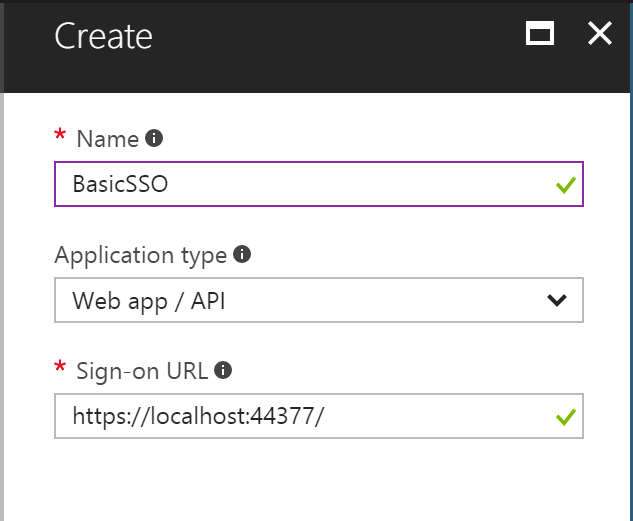
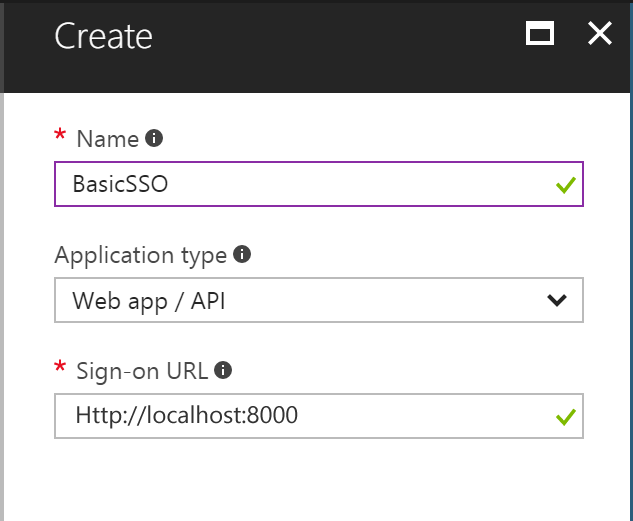
Update text.

Changed region(s): [[0.1201, 0.7678, 0.5103, 0.8292]]

diff --git a/Basics of SSO/README.md b/Basics of SSO/README.md
@@ -50,7 +50,7 @@ The starter project is a simple application with only SQL authentication configu
 
 4. Input a **Name**, and select **Web app / API** as **Application Type**.
 
-   Input **Sign-on URL**: https://localhost:44377/
+   Input **Sign-on URL**: http://localhost:8000
 
    ![](Images/aad-create-app-02.png)
 
@@ -97,7 +97,7 @@ The starter project is a simple application with only SQL authentication configu
 
 1. Open the Starter Project in Visual Studio Code, if it isn't already open.  
 
-2. Create a new file named **evn.bat** in the same directory as **manage.py**. Add two new keys **ClientId** and **ClientSecret**. These keys will be used to identity in your apps with Windows Azure Active Directory.
+2. Create a new file named **env.bat** in the same directory as **manage.py**. Add two new keys **ClientId** and **ClientSecret**. These keys will be used to identity in your apps with Windows Azure Active Directory.
 
    ```xml
    set ClientId=<input your client id here>
@@ -133,6 +133,7 @@ The starter project is a simple application with only SQL authentication configu
    microsoft_certs_uri = 'https://login.microsoftonline.com/common/discovery/v2.0/keys'
 
    company_admin_role_name = "Company Administrator"
+   ```
 
 
    o365_username_cookie = "O365CookieUsername"
@@ -362,6 +363,7 @@ The starter project is a simple application with only SQL authentication configu
            token.refreshToken = auth_result.get('refreshToken')
            token.expiresOn = expiresOnUTC
            token.save()
+   ```
 
 
 
@@ -586,6 +588,7 @@ The starter project is a simple application with only SQL authentication configu
        def _get_organization(self, tenant_id):
            url = self.api_base_uri + 'organization/' + tenant_id
            return self.rest_api_service.get_json(url, self.access_token)
+   ```
 
 
        def _get_directory_roles(self):
@@ -671,30 +674,31 @@ The starter project is a simple application with only SQL authentication configu
 
 10. Edit account\views.py, remove all code and paste the following.
 
-    ```python
-    '''
-     *   * Copyright (c) Microsoft Corporation. All rights reserved. Licensed under the MIT license.
-     *   * See LICENSE in the project root for license information.
-    '''
+  ```python
+  '''
+   *   * Copyright (c) Microsoft Corporation. All rights reserved. Licensed under the MIT license.
+   *   * See LICENSE in the project root for license information.
+  '''
 
-    import constant
-    from utils.shortcuts import render
+  import constant
+  from utils.shortcuts import render
 
-    from django.conf import settings
-    from django.contrib.auth import login as auth_login
-    from django.contrib.auth import logout as auth_logout
-    from django.contrib.auth import authenticate as auth_authenticate
-    from django.http import HttpResponse, HttpResponseRedirect
+  from django.conf import settings
+  from django.contrib.auth import login as auth_login
+  from django.contrib.auth import logout as auth_logout
+  from django.contrib.auth import authenticate as auth_authenticate
+  from django.http import HttpResponse, HttpResponseRedirect
 
-    from decorator import login_required
-    from services.token_service import TokenService
-    from services.ms_graph_service import MSGraphService
-    from services.user_service import UserService
-    from services.auth_service import AuthService
-    from .forms import UserInfo, UserRegInfo
+  from decorator import login_required
+  from services.token_service import TokenService
+  from services.ms_graph_service import MSGraphService
+  from services.user_service import UserService
+  from services.auth_service import AuthService
+  from .forms import UserInfo, UserRegInfo
 
-    user_service = UserService()
-    token_service = TokenService()
+  user_service = UserService()
+  token_service = TokenService()
+  ```
 
 
     def index(request):
@@ -703,7 +707,7 @@ The starter project is a simple application with only SQL authentication configu
             return HttpResponseRedirect('/Account/Login')
         else:
             return HttpResponseRedirect('/Schools')
-
+    
     def login(request):
         # get /Account/Login
         if request.method == 'GET':
@@ -737,7 +741,7 @@ The starter project is a simple application with only SQL authentication configu
             'errors': errors
         }
         return render(request, 'account/login.html', context)
-
+    
     def o365_login(request):
         extra_params = {
             'scope': 'openid+profile',
@@ -758,26 +762,26 @@ The starter project is a simple application with only SQL authentication configu
         AuthService.validate_state(request)
         code = request.POST.get('code')
         id_token = AuthService.get_id_token(request)
-
+    
         o365_user_id = id_token.get('oid')
         tenant_id = id_token.get('tid')
-
+    
         redirect_uri = AuthService.get_redirect_uri(request, 'Auth/O365/Callback')
         auth_result = token_service.get_token_with_code(code, redirect_uri, constant.Resources.MSGraph)
         token_service.cache_tokens(auth_result, o365_user_id)
-
+    
         ms_graph_service = MSGraphService(auth_result.get('accessToken'))
         o365_user = ms_graph_service.get_o365_user(tenant_id)
         AuthService.set_o365_user(request, o365_user)
-
+    
         for role in o365_user.roles:
             user_service.update_role(o365_user.id, role)
-
+    
         user_service.create_or_update_organization(tenant_id, o365_user.tenant_name)
         local_user = user_service.get_user_by_o365_email(o365_user.email)
         if local_user:
             auth_login(request, local_user)
-
+    
         response =  HttpResponseRedirect('/')
         response.set_cookie(constant.o365_username_cookie, o365_user.display_name)
         response.set_cookie(constant.o365_email_cookie, o365_user.email)
@@ -805,17 +809,17 @@ The starter project is a simple application with only SQL authentication configu
         # get /Account/Register
         else:
             return render(request, 'account/register.html', {'user_reg_form':user_reg_form})
-
+    
     @login_required
     def logoff(request):
         user = AuthService.get_current_user(request)
         AuthService.clear_o365_user(request)
         auth_logout(request)
         return HttpResponseRedirect('/')
-    ```
-
+    ```
+    
     Two new methods with name o365_login and o365_auth_callback are added. These methods are used for user login to O365 and then handle login result from O365.
-
+    
     To see how this file works in the Demo app, refer to the file located [here](../account/views.py) in the Demo app.
 
 11. Open command and then locate to the same directory as **manage.py**. Run below commands one by one. 
